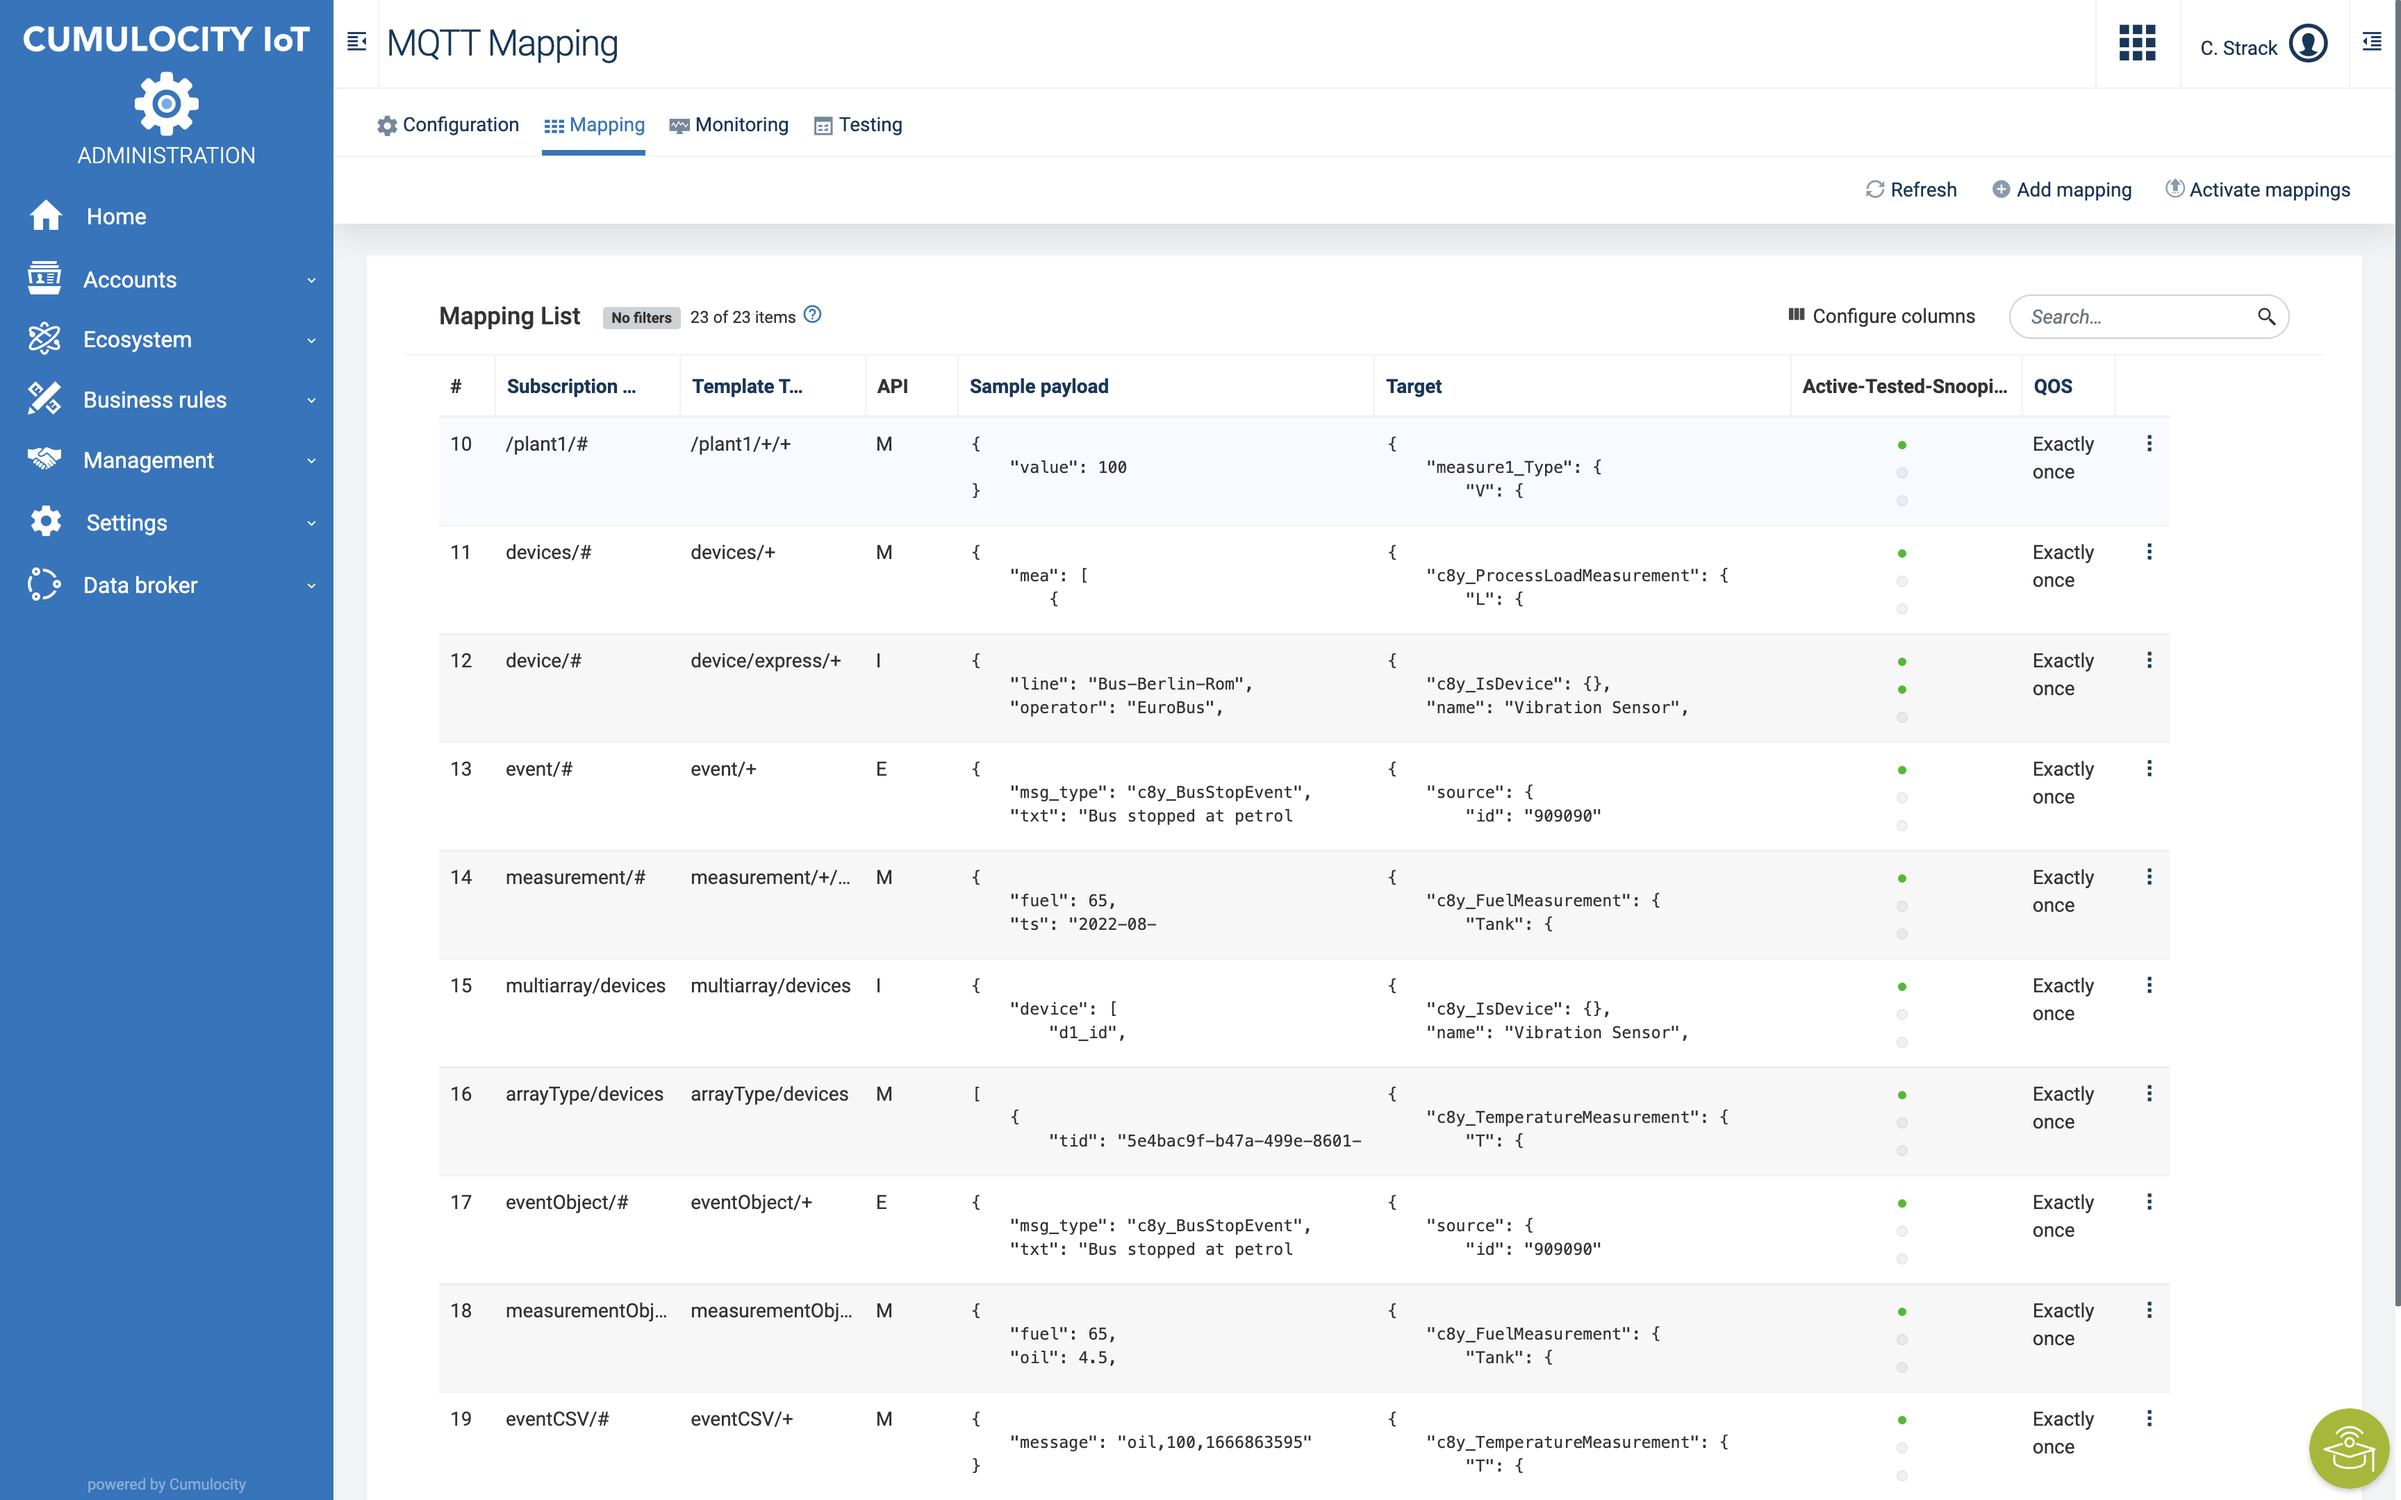
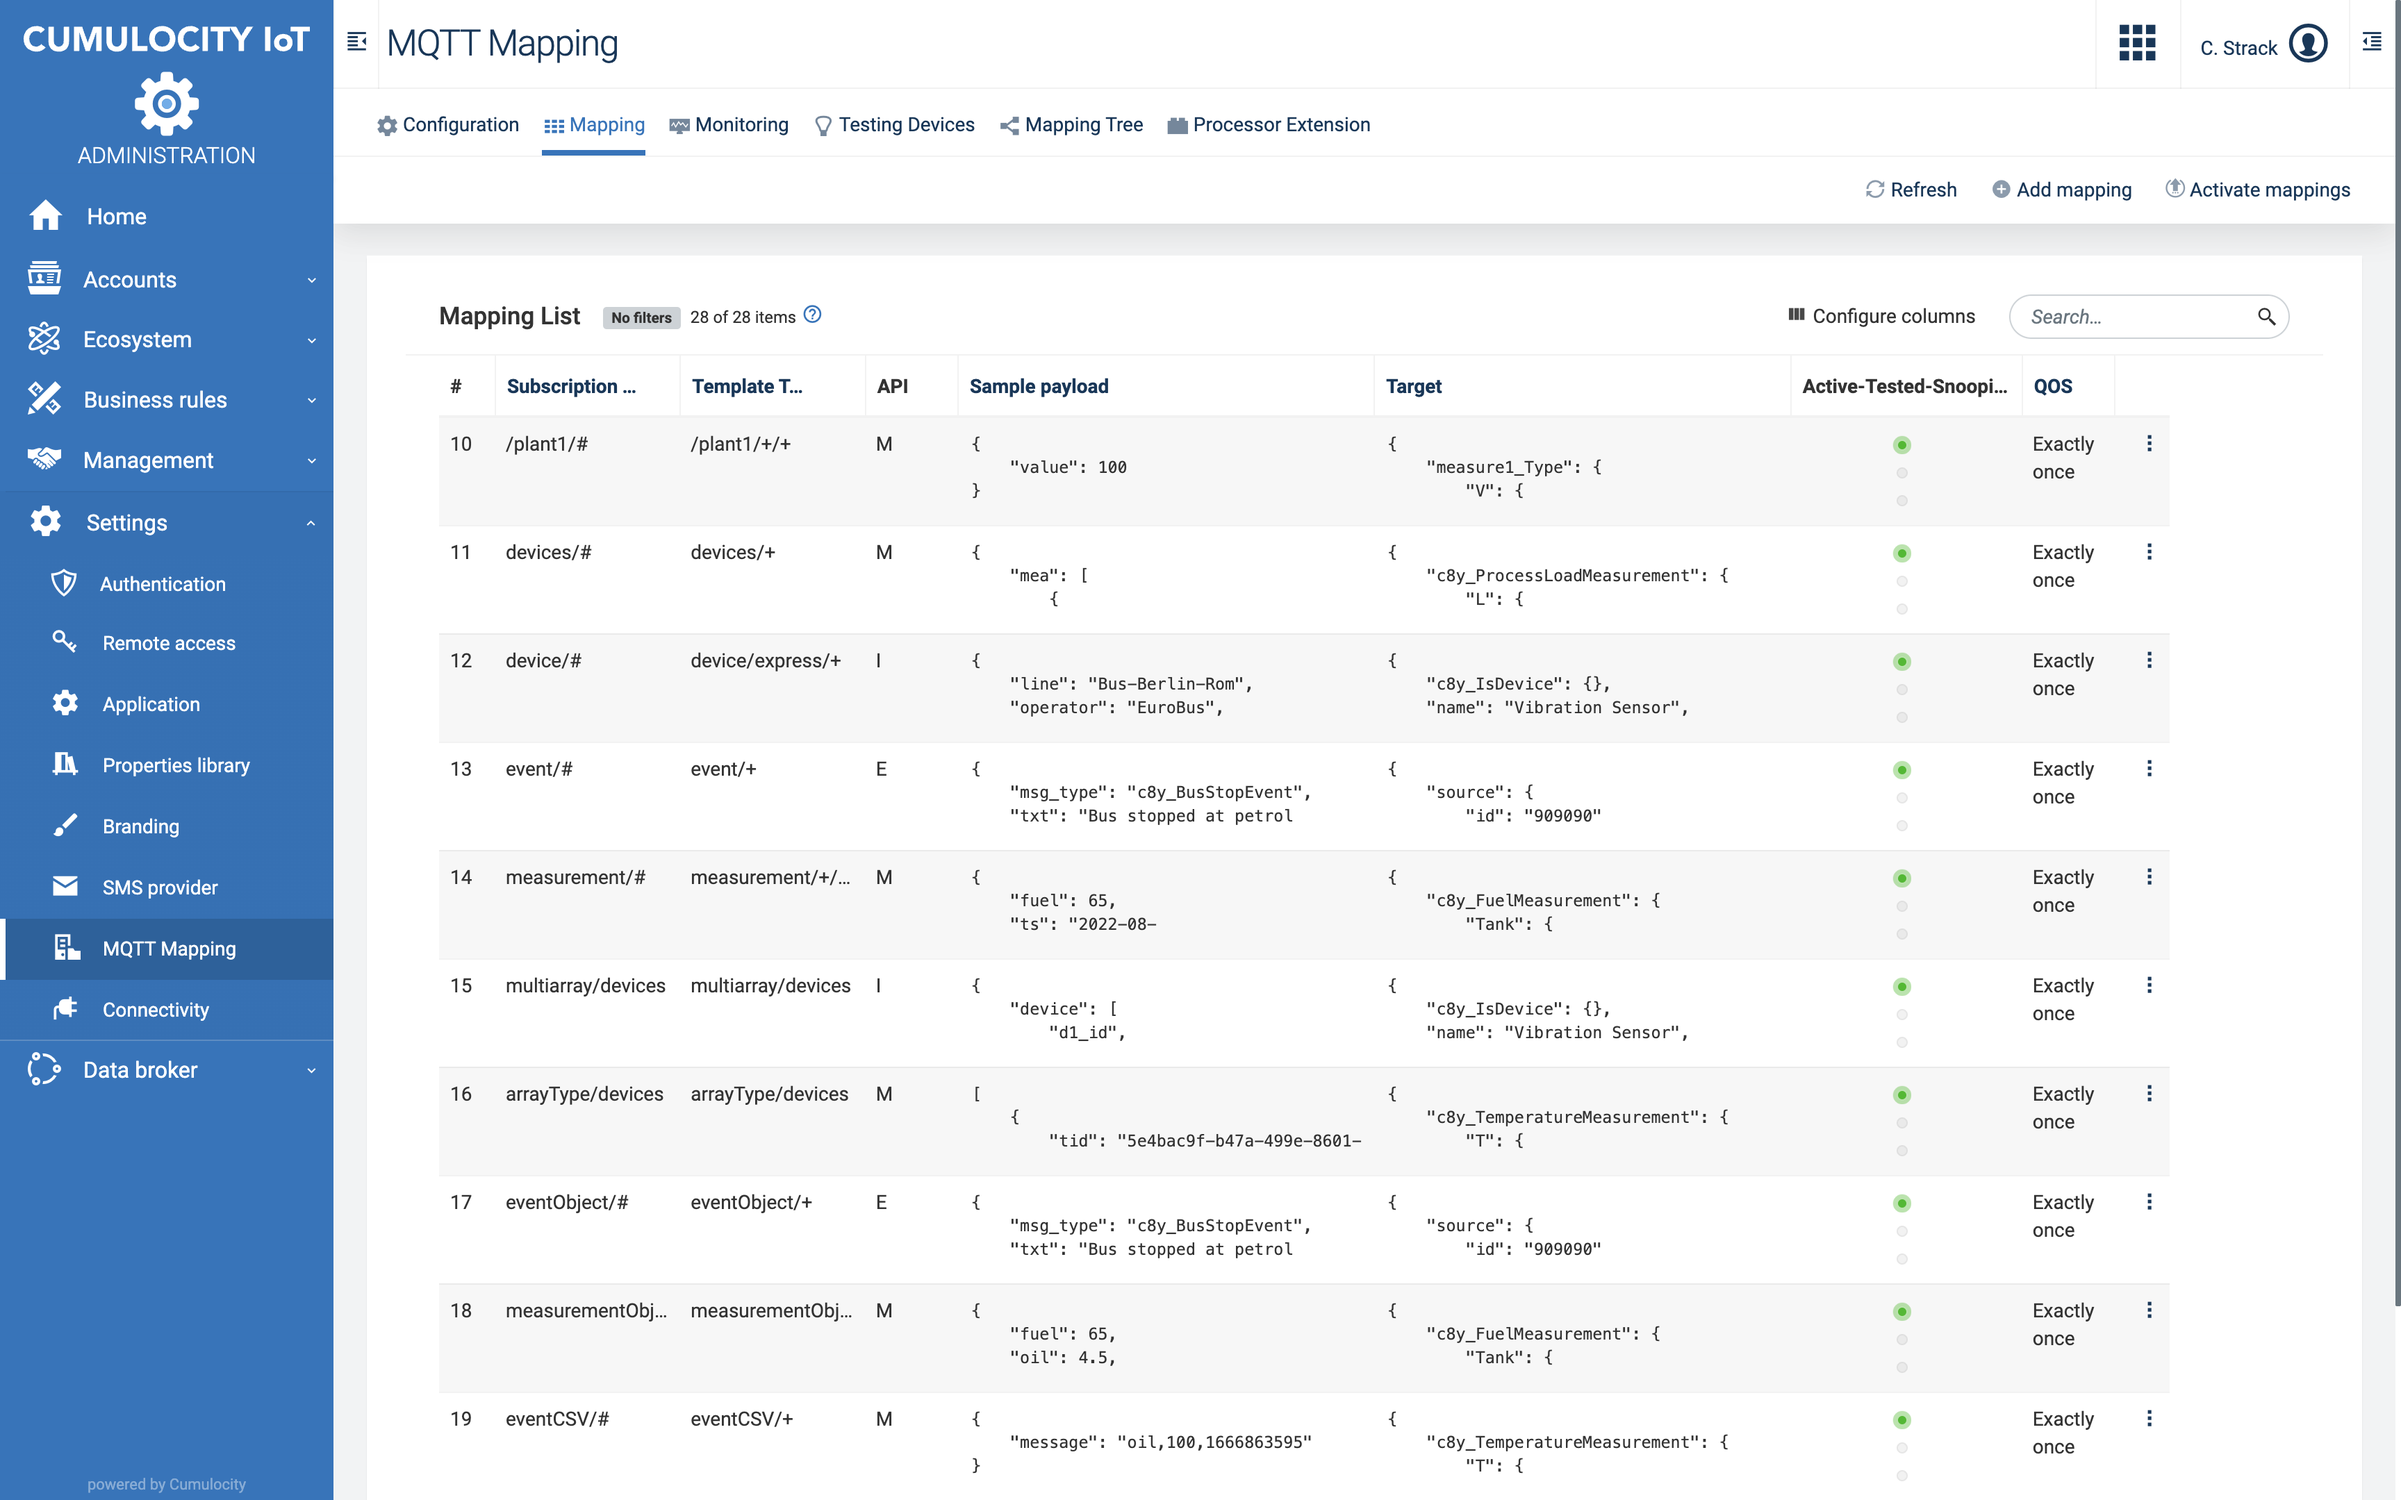
updated docu

diff --git a/backend/src/main/java/mqtt/mapping/processor/AsynchronousDispatcher.java b/backend/src/main/java/mqtt/mapping/processor/AsynchronousDispatcher.java
@@ -22,7 +22,7 @@ import mqtt.mapping.core.C8YAgent;
 import mqtt.mapping.model.Mapping;
 import mqtt.mapping.model.MappingStatus;
 import mqtt.mapping.model.SnoopStatus;
-import mqtt.mapping.processor.extension.ExtensionPayloadProcessor;
+import mqtt.mapping.processor.extension.ExtensibleProcessor;
 import mqtt.mapping.processor.extension.ProcessorExtension;
 import mqtt.mapping.processor.model.C8YRequest;
 import mqtt.mapping.processor.model.MappingType;
@@ -43,12 +43,12 @@ public class AsynchronousDispatcher implements MqttCallback {
         boolean sendPayload;
         MqttMessage mqttMessage;
         ApplicationContext applicationContext;
-        ExtensionPayloadProcessor<?> extensionPayloadProcessor;
+        ExtensibleProcessor<?> extensionPayloadProcessor;
         SpringUtil springUtil;
 
         public MappingProcessor(List<Mapping> mappings, MQTTClient mqttClient, String topic,
                 Map<MappingType, BasePayloadProcessor<?>> payloadProcessors, boolean sendPayload, MqttMessage mqttMessage,
-                ExtensionPayloadProcessor<?> extensionPayloadProcessor, SpringUtil springUtil) {
+                ExtensibleProcessor<?> extensionPayloadProcessor, SpringUtil springUtil) {
             this.resolveMappings = mappings;
             this.mqttClient = mqttClient;
             this.topic = topic;
@@ -143,7 +143,7 @@ public class AsynchronousDispatcher implements MqttCallback {
     protected MQTTClient mqttClient;
 
     @Autowired
-    protected ExtensionPayloadProcessor<?> extensionPayloadProcessor;
+    protected ExtensibleProcessor<?> extensionPayloadProcessor;
 
     @Autowired
     SysHandler sysHandler;

diff --git a/backend/src/main/java/mqtt/mapping/App.java b/backend/src/main/java/mqtt/mapping/App.java
@@ -35,7 +35,7 @@ import mqtt.mapping.processor.model.MappingType;
 import mqtt.mapping.processor.processor.FlatFileProcessor;
 import mqtt.mapping.processor.processor.GenericBinaryProcessor;
 import mqtt.mapping.processor.processor.JSONProcessor;
-import mqtt.mapping.processor.processor.ProtobufProcessorStatic;
+import mqtt.mapping.processor.processor.StaticProtobufProcessor;
 import mqtt.mapping.service.MQTTClient;
 import mqtt.mapping.service.RFC3339DateFormat;
 
@@ -93,7 +93,7 @@ public class App {
             MappingType.JSON, new JSONProcessor<JsonNode>(objectMapper, mqttClient, c8yAgent),
             MappingType.FLAT_FILE, new FlatFileProcessor<JsonNode>(objectMapper, mqttClient, c8yAgent),
             MappingType.GENERIC_BINARY, new GenericBinaryProcessor<JsonNode>(objectMapper, mqttClient, c8yAgent),
-            MappingType.PROTOBUF_STATIC, new ProtobufProcessorStatic<JsonNode>(objectMapper, mqttClient, c8yAgent)
+            MappingType.PROTOBUF_STATIC, new StaticProtobufProcessor<JsonNode>(objectMapper, mqttClient, c8yAgent)
             );
     }
 

diff --git a/backend/src/main/java/mqtt/mapping/processor/SynchronousDispatcher.java b/backend/src/main/java/mqtt/mapping/processor/SynchronousDispatcher.java
@@ -18,7 +18,7 @@ import mqtt.mapping.core.C8YAgent;
 import mqtt.mapping.model.Mapping;
 import mqtt.mapping.model.MappingStatus;
 import mqtt.mapping.model.SnoopStatus;
-import mqtt.mapping.processor.extension.ExtensionPayloadProcessor;
+import mqtt.mapping.processor.extension.ExtensibleProcessor;
 import mqtt.mapping.processor.extension.ProcessorExtension;
 import mqtt.mapping.processor.model.C8YRequest;
 import mqtt.mapping.processor.model.MappingType;
@@ -39,7 +39,7 @@ public class SynchronousDispatcher implements MqttCallback {
     protected MQTTClient mqttClient;
     
     @Autowired
-    ExtensionPayloadProcessor<?> extensionPayloadProcessor;
+    ExtensibleProcessor<?> extensionPayloadProcessor;
 
     @Autowired
     SysHandler sysHandler;

diff --git a/backend/src/main/java/mqtt/mapping/processor/extension/ExtensibleProcessor.java b/backend/src/main/java/mqtt/mapping/processor/extension/ExtensibleProcessor.java
@@ -16,9 +16,9 @@ import mqtt.mapping.service.MQTTClient;
 
 @Slf4j
 @Service
-public class ExtensionPayloadProcessor<T> extends BasePayloadProcessor<byte[]> {
+public class ExtensibleProcessor<T> extends BasePayloadProcessor<byte[]> {
 
-        public ExtensionPayloadProcessor(ObjectMapper objectMapper, MQTTClient mqttClient, C8YAgent c8yAgent) {
+        public ExtensibleProcessor(ObjectMapper objectMapper, MQTTClient mqttClient, C8YAgent c8yAgent) {
                 super(objectMapper, mqttClient, c8yAgent);
         }
 

diff --git a/backend/src/main/java/mqtt/mapping/processor/processor/StaticProtobufProcessor.java b/backend/src/main/java/mqtt/mapping/processor/processor/StaticProtobufProcessor.java
@@ -29,9 +29,9 @@ import mqtt.mapping.service.MQTTClient;
 
 @Slf4j
 @Service
-public class ProtobufProcessorStatic<T> extends BasePayloadProcessor<T> {
+public class StaticProtobufProcessor<T> extends BasePayloadProcessor<T> {
 
-        public ProtobufProcessorStatic(ObjectMapper objectMapper, MQTTClient mqttClient, C8YAgent c8yAgent) {
+        public StaticProtobufProcessor(ObjectMapper objectMapper, MQTTClient mqttClient, C8YAgent c8yAgent) {
                 super(objectMapper, mqttClient, c8yAgent);
         }
 

diff --git a/extension/src/main/java/mqtt/mapping/processor/extension/custom/CustomEventProcessorExtension.java b/extension/src/main/java/mqtt/mapping/processor/extension/custom/CustomEventProcessorExtension.java
@@ -22,7 +22,7 @@ import mqtt.mapping.processor.model.RepairStrategy;
 
 @Slf4j
 @Component
-public class ProcessorExtensionCustomEvent<O> implements ProcessorExtension<byte[]> {
+public class CustomEventProcessorExtension<O> implements ProcessorExtension<byte[]> {
         @Override
         public void extractFromSource(ProcessingContext<byte[]> context)
                         throws ProcessingException {

diff --git a/README.md b/README.md
@@ -21,11 +21,12 @@
   * [Test transformation from source to target format](#test-transformation-from-source-to-target-format)
   * [Send transformed test message to test device in Cumulocity](#send-transformed-test-message-to-test-device-in-cumulocity)
   * [Use snooped payloads in source templates](#use-snooped-payloads-in-source-templates)
+- [Processing Extensions (Prorobuf)](#processing-extensions-protobuf)
 - [Monitoring](#monitoring)
+- [Mapping Tree](#mapping-tree)
 - [REST API](#rest-api)
 - [Load Test](#load-test)
 - [Setup Sample MQTT mappings](#setup-sample-mqtt-mappings)
-
 
 
 ## Overview
@@ -399,12 +400,28 @@ In order to use a previously snooped payload click the button
 
 ![Enable Snooping](resources/image/Generic_MQTT_UseSnoopedPayload.png)
 
+
+### Processing Extensions (Prorobuf)
+
+![Template Editor](resources/image/Generic_MQTT_ProtobufMessage.png)
+
+
+![Processing payloads](resources/image/Generic_MQTT_Dispatcher.png)
+
+
+![Uploaded Extension payloads](resources/image/Generic_MQTT_ProcessorExtension.png)
+
 ### Monitoring
 
 On the monitoring tab ```Monitoring``` you can see how a specific MQTT mapping performs since the last activation in the microservice.
 
 ![Monitoring](resources/image/Generic_MQTT_Monitoring.png)
 
+### Mapping Tree
+
+On the tab ```Mapping Tree``` you can see how the registered mappings are organised in a tree. This can be very helpful in case of tracing any errors.
+
+![Monitoring](resources/image/Generic_MQTT_MappingTree.png)
 
 ### REST API
 
@@ -417,6 +434,9 @@ The mapping microservice provides endpoints to control the lifecycle and manage 
 1. ```.../mapping```: retrieve, delete, update mappings
 1. ```.../tree```: all mappings are organised in a tree for efficient processing and resolving the mappings at runtime. This tree can be retrieved for debugging purposes.
 1. ```.../test/{method}?topic=URL_ENCODED_TOPIC```: this endpoint allows testing of a payload. The send parameter (boolen)  indicates if the transfromed payload should be send to Cumulocity after processing. The call return a list of ```ProcessingConext``` to record which mapping processed the payload and the otcome of the mapping process as well as error
+1. ```.../extension/```: returns list of all loaded extensions
+1. ```.../extension/{extension-name}```: returns list of specified extensions, if the extension is loaded
+
 
 ### Load Test
 In the resource section you find a test profil [jmeter_test_01.jmx](resources/script/jmeter_test_01.jmx) using jmeter and an extention for mqtt: [emqx/mqtt-jmete](https://github.com/emqx/mqtt-jmeter).
